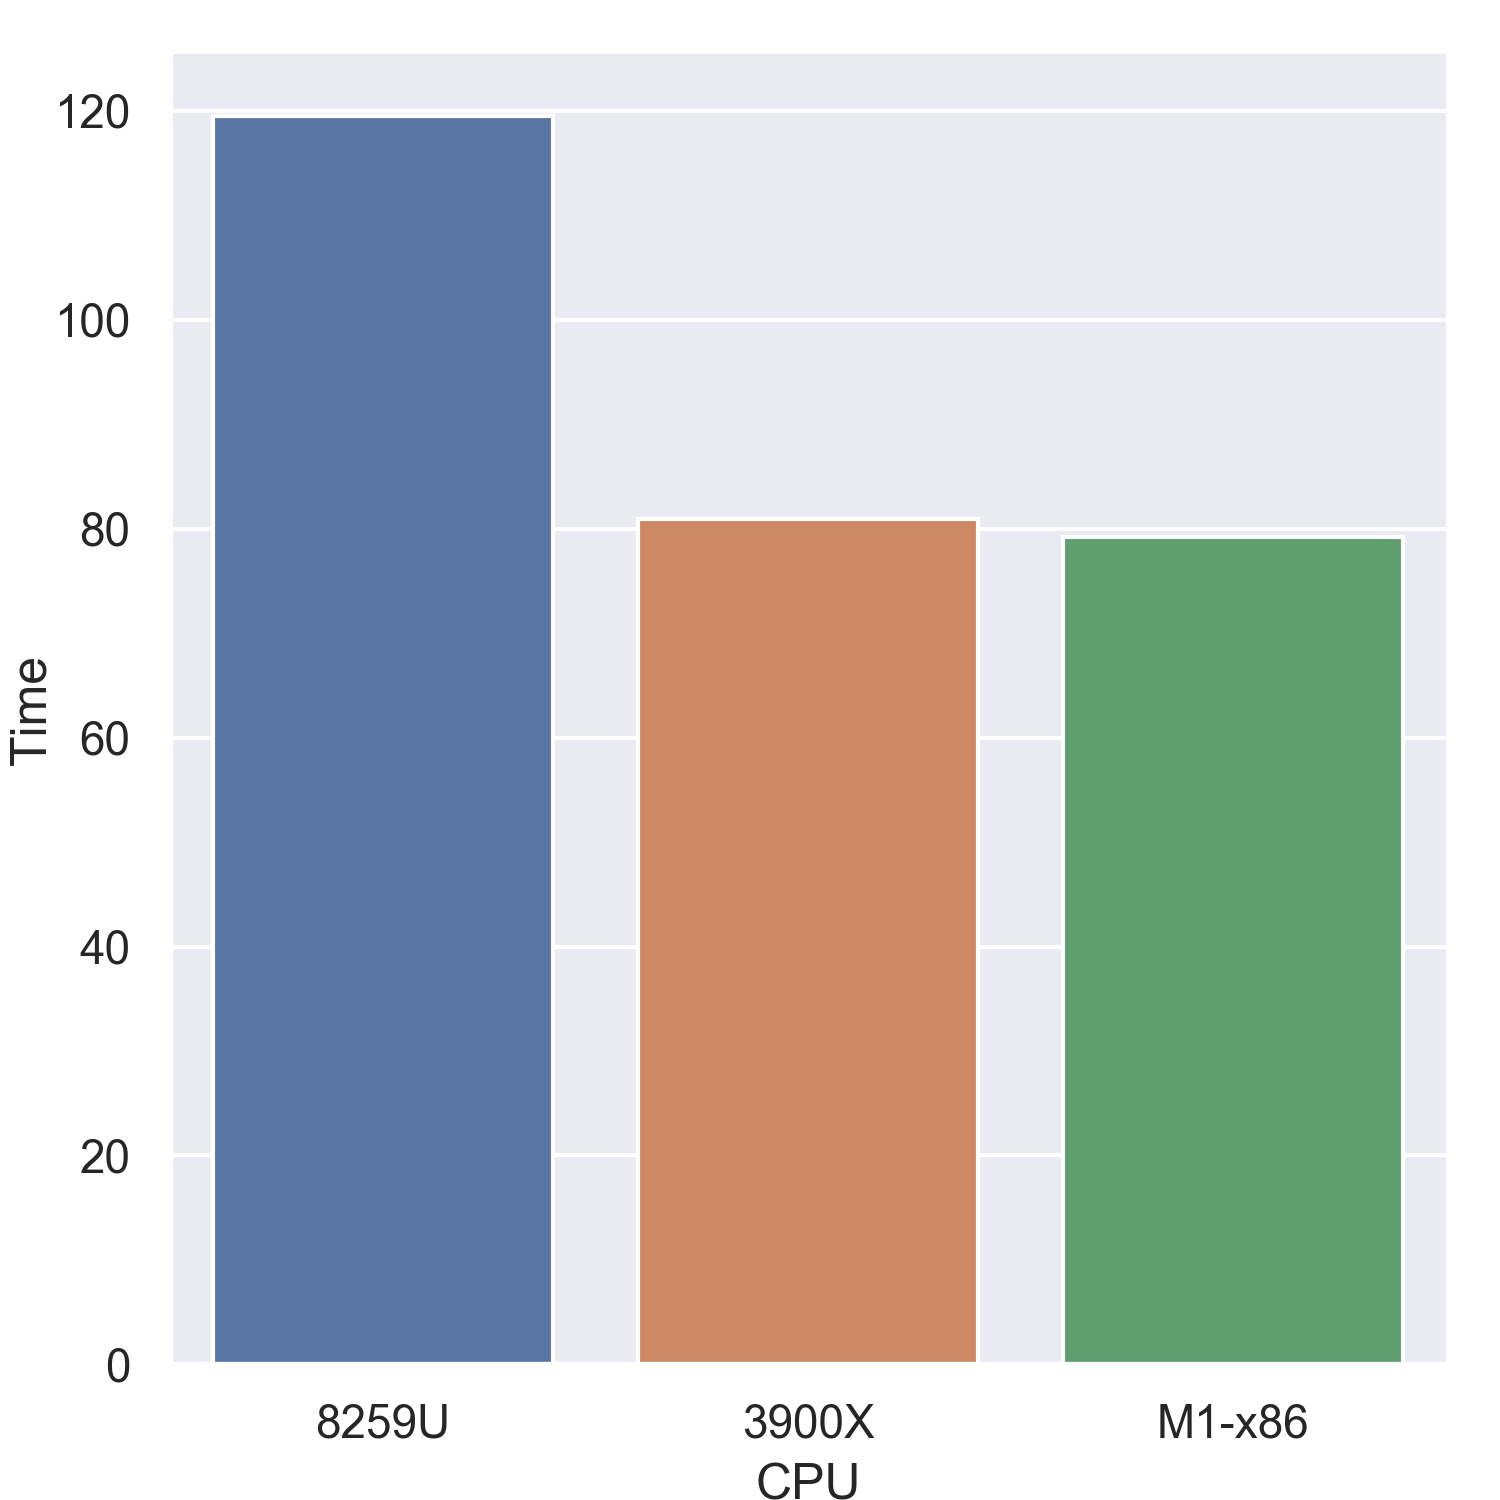
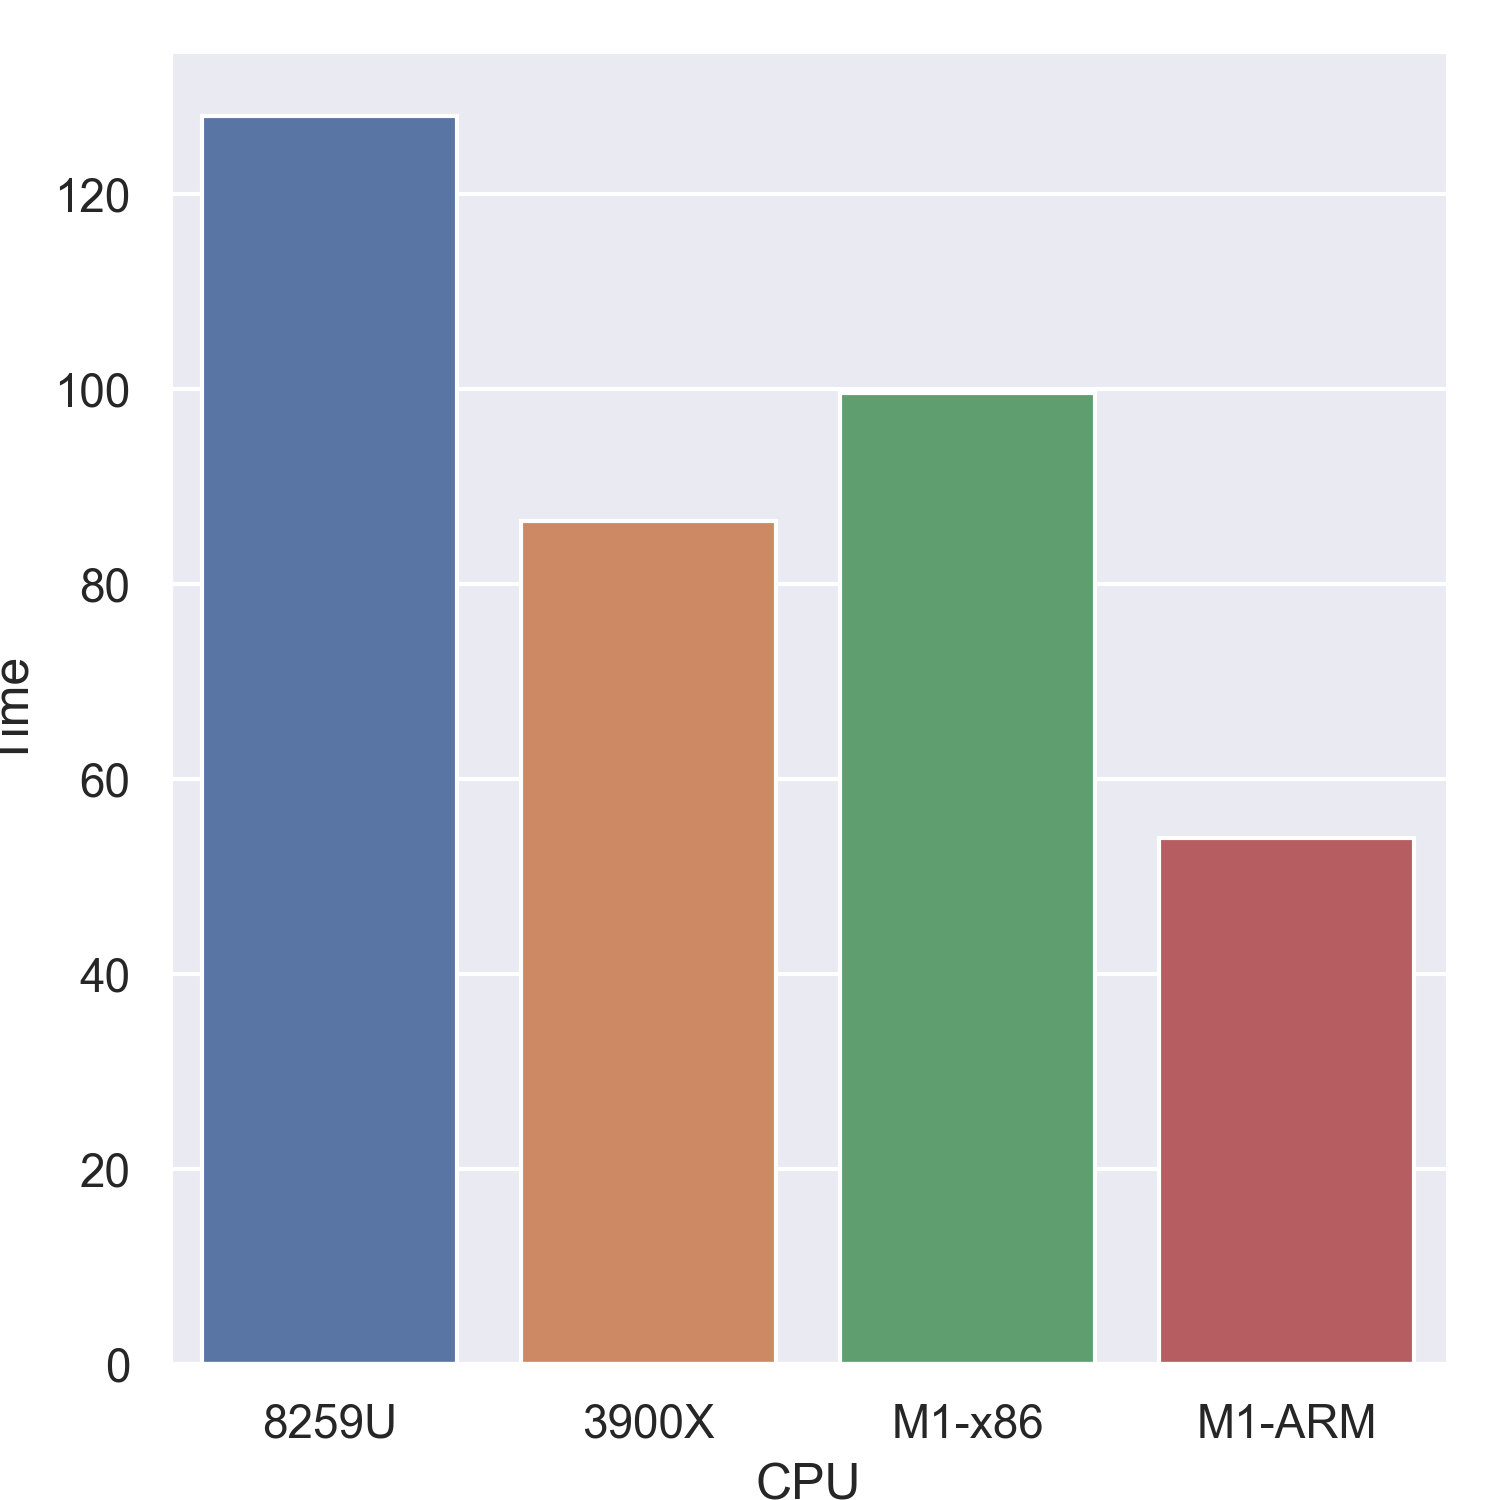
AFNI update

diff --git a/afni_graph.py b/afni_graph.py
@@ -10,8 +10,8 @@ import matplotlib.pyplot as plt
 #MacBook i5-8259U
 #Ubuntu i7-8700K
 #Ubuntu 3900X
-df = pd.DataFrame({'CPU': ['8259U','3900X','M1-x86'],
-					'Time': [119.454, 80.914, 79.194]})
+df = pd.DataFrame({'CPU': ['8259U','3900X','M1-x86','M1-ARM'],
+					'Time': [128.0, 86.5, 99.6, 54.0]})
 
 
 sns.set()

diff --git a/README.md b/README.md
@@ -14,7 +14,7 @@ The infrastructure scientists depend on is not yet available for this architectu
  - Current Apple Silicon compilers do [not support OpenMP](https://github.com/Homebrew/brew/issues/7857). Many scientific tools use this framework to implement parallel computing. This means most native tools will only be able to use a single CPU at a time (though note translated x86-64 OpenMP applications will run multi-threaded). While Apple's C Clang compiler generates fast native code, many scientific tools will need to [wait](https://www.theregister.com/2020/11/18/apple_silicon_m1_mac_compatibility/) until gcc, golang and gFortran compilers are available.
  - Tools like VirtualBox, VMware Fusion, Boot Camp and Parallels do not yet support Apple Silicon. Many users rely on these tools for using Windows and Linux programs on their macOS computers.
  - Docker does not [support Apple Silicon](https://www.docker.com/blog/apple-silicon-m1-chips-and-docker/). These containers are popular with many neuroimaging tools.
- - Many [homebrew components](https://github.com/Homebrew/brew/issues/7857) do not support Apple Silicon. Users will have to [install translated components](https://soffes.blog/homebrew-on-apple-silicon).
+ - Many [homebrew components](https://github.com/Homebrew/brew/issues/7857) do not support Apple Silicon. Users will have to [install translated components](https://soffes.blog/homebrew-on-apple-silicon) or [build supported modules from source](https://github.com/mikelxc/Workarounds-for-ARM-mac).
  - MATLAB is used by many scientific tools, including SPM. While [Matlab](https://www.mathworks.com/matlabcentral/answers/641925-is-matlab-supported-on-apple-silicon-macs) works in translation, it is not yet available natively (and mex files will need to be recompiled).
  - [FSL](https://www.jiscmail.ac.uk/cgi-bin/wa-jisc.exe?A2=ind2011&L=FSL&O=D&X=E5496FE3694704BA21&Y=rorden%40sc.edu&P=163954) and AFNI do not yet natively support this architecture. While code may work in translation, native tools supporting features like OpenMP must wait for compilers and libraries to be updated. This will likely require months.
  
@@ -44,11 +44,11 @@ Four computers were tested:
 
 ## AFNI
 
-[AFNI](https://afni.nimh.nih.gov) is a popular software suite for brain imaging. It is a collection of executables written in C. Some AFNI tools use OpenMP for parallel processing. Native code for Apple Silicon will be limited by the fact that OpenMP C compilers are not expected until the middle of 2021. Further, it relies on libraries like [motif](https://sourceforge.net/projects/motif/) that are not yet available pre-compiled for Apple Silicon.
+[AFNI](https://afni.nimh.nih.gov) is a popular software suite for brain imaging. It is a collection of executables written in C. Some AFNI tools use OpenMP for parallel processing. Native code for Apple Silicon will be limited by the fact that OpenMP C compilers are not expected until the middle of 2021. Further, it relies on libraries like [motif](https://sourceforge.net/projects/motif/) that are not yet available pre-compiled for Apple Silicon. 
 
-However, Rosetta2 seamlessly translates Intel binaries and libraries. Here I simply copied the executables and libraries from an Intel-based macOS computer and authorized them (e.g. `xattr -dr com.apple.quarantine 3d*`).
+However, Rosetta2 seamlessly translates Intel binaries and libraries. Here I simply copied the executables and libraries from an Intel-based macOS computer and authorized them (e.g. `xattr -dr com.apple.quarantine 3d*`). I also natively compiled motif and a few of the AFNI programs.
 
-The graph below shows the geometric mean time for applying 3dcalc and 3dvolreg to a large resting state dataset. Lower values indicate better performance. Note that the fanless M1 running translated code actually outpaces the desktop computer.
+The graph below shows the geometric mean time for applying 3dcalc and 3dvolreg to a large resting state dataset. Lower values indicate better performance. Note that the fanless M1 running actually outpaces the desktop computer.
 
 ![afni](afni.png)
 
